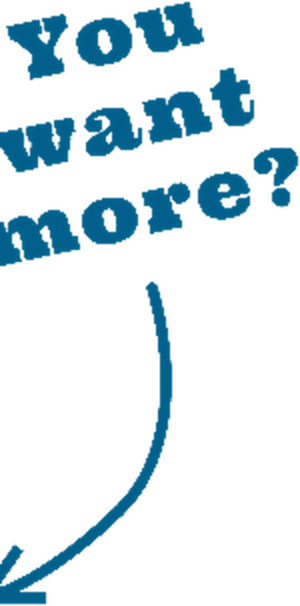
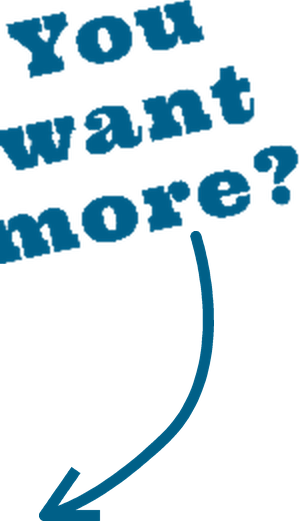
Section 2: rebuild the annotation lockups at the design's proportions
Both annotations sat too low and the yellow one ran into the play button.
Position was never the problem -- left/top matched the design throughout. Size
was: the exported assets carry much longer arrow tails than the design's own
vectors, so sizing them by text width made each lockup roughly 48% of the frame
height against the design's 27.94% and 41.40%, and the surplus hung below.

  design    hear 517x195 -> 27.94% of the 698px frame
            more 166x289 -> 41.40%
  before    hear 46.75%, more 48.58%

Rebuilt both from the .fig rather than resampling. The arrows are the design's
own vector networks, decoded out of the document blob: 19 vertices and 19 cubic
segments each, at blob indices 200 and 198, rendered at design size. The word
art is lifted from the existing asset and composited unscaled, so no type is
resampled; only the arrow is redrawn, and it is vector. Canvases come out at
1008x380 and 299x521, aspects 2.653 and 0.574 against the design's 2.651 and
0.574, which lets the CSS use the design's own figures directly.

Isolating the text needed care: the word art is the FIRST contiguous run of
inked rows, with a clear empty gap before the arrow. Taking max() of the dense
rows reached past that gap and swallowed the arrow, which produced the earlier
attempts where the type came out overscaled and clipped.

sec2test now asserts lockup HEIGHT at both breakpoints. Every check I had --
left, top, width, clears-the-frame -- passed while both lockups were 1.7x too
[…]

Changed region(s): [[0.0, 0.0921, 1.0, 1.0], [0.0, 0.0, 0.4816, 0.1536], [0.4816, 0.0, 0.6923, 0.1228]]

diff --git a/scripts/qa/regen/sec2test.js b/scripts/qa/regen/sec2test.js
@@ -38,6 +38,18 @@ const R=[];const ck=(n,p,d='')=>{R.push(p);console.log(`${p?'PASS':'FAIL'}  ${n}
                 return {gap:+(r.left-fr.right).toFixed(1),
                         clear:r.left>=fr.right,
                         onPaper:r.left>fr.right&&r.top<fr.bottom};})(),
+              // Lockup HEIGHT as a share of the frame. Position was right and
+              // size was wrong: the assets carried longer arrow tails than the
+              // design, so sizing them by width made them ~48% of the frame
+              // against the design's 27.9%/41.4%, dropping both arrows far too
+              // low and running the yellow one into the play button. Every
+              // left/top/width check passed throughout.
+              lockH:(()=>{const o={};
+                for(const [k,sel] of [['hear','ann-hear'],['more','ann-more']]){
+                  const el=s.querySelector(`img[src*="${sel}"]`); if(!el) continue;
+                  const r=el.getBoundingClientRect();
+                  if(r.height>0) o[k]=+(r.height/fr.height*100).toFixed(2);}
+                return o;})(),
               btn:!!btn, btnLabel:btn&&btn.getAttribute('aria-label'),
               overflow:document.documentElement.scrollWidth>innerWidth+1};
     });
@@ -56,6 +68,14 @@ const R=[];const ck=(n,p,d='')=>{R.push(p);console.log(`${p?'PASS':'FAIL'}  ${n}
       // artboard. Measured from the stroke artwork, which is exact, rather
       // than off a scaled screenshot.
       ck('video frame at design width', Math.abs(m.framePct-53.7)<1.5, `${m.framePct}% vs 53.7%`);
+      // Design lockups: hear 517x195 -> 27.94% of the 698px frame; more
+      // 166x289 -> 41.40%. Sized from the .fig node tree.
+      if (m.lockH.hear !== undefined)
+        ck('"Hear Chris" lockup at design height', Math.abs(m.lockH.hear-27.94)<2.5,
+           `${m.lockH.hear}% vs 27.94%`);
+      if (m.lockH.more !== undefined)
+        ck('"You want more?" lockup at design height', Math.abs(m.lockH.more-41.40)<2.5,
+           `${m.lockH.more}% vs 41.40%`);
       ck('frame aspect matches', Math.abs(m.aspect-1.644)<0.02, `${m.aspect}`);
       ck('both annotations visible', m.annVisible===2, `${m.annVisible}`);
       if (m.moreOutside && m.moreOutside !== 'hidden') {

diff --git a/components/regenerative/WhatIs.js b/components/regenerative/WhatIs.js
@@ -116,7 +116,7 @@ export function WhatIs() {
               src="/images/regen/ann-hear.png"
               alt="Hear Chris talk about regenerative"
               className="absolute hidden sm:block"
-              style={{ left: "48.93%", top: "20.78%", width: "46.91%", zIndex: 3 }}
+              style={{ left: "48.98%", top: "23.35%", width: "45.55%", zIndex: 3 }}
             />
           </div>
 
@@ -132,7 +132,7 @@ export function WhatIs() {
             src="/images/regen/ann-more.png"
             alt="You want more?"
             className="absolute hidden sm:block"
-            style={{ left: "100.23%", top: "71.65%", width: "14.67%", zIndex: 4 }}
+            style={{ left: "100.23%", top: "72.21%", width: "14.63%", zIndex: 4 }}
           />
         </div>
       </div>
